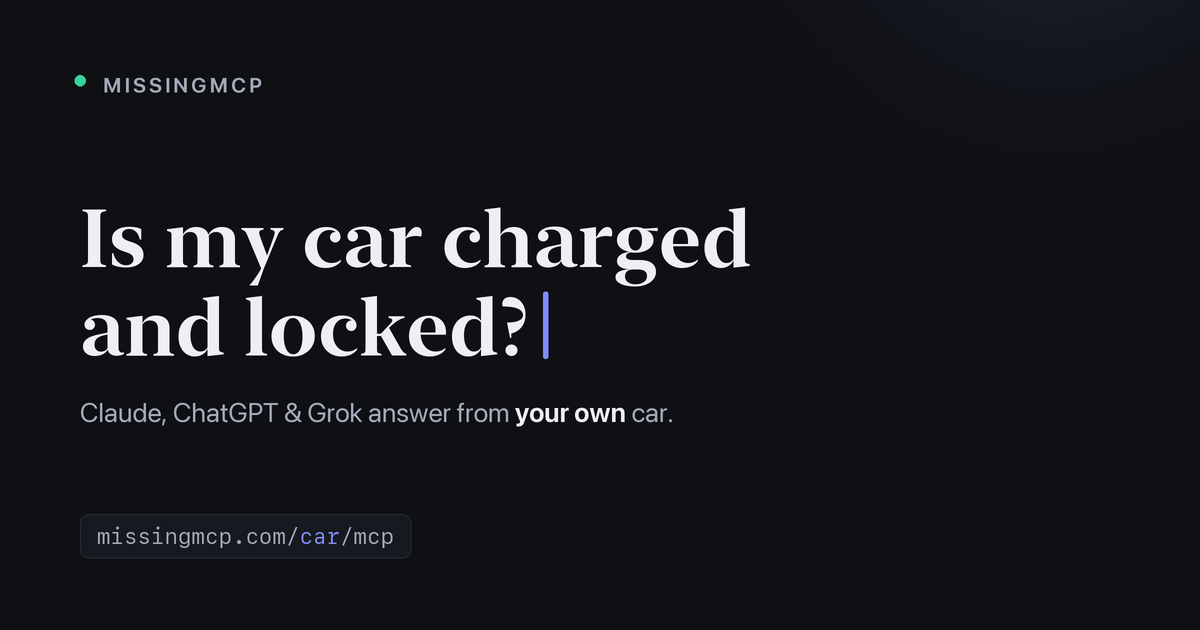
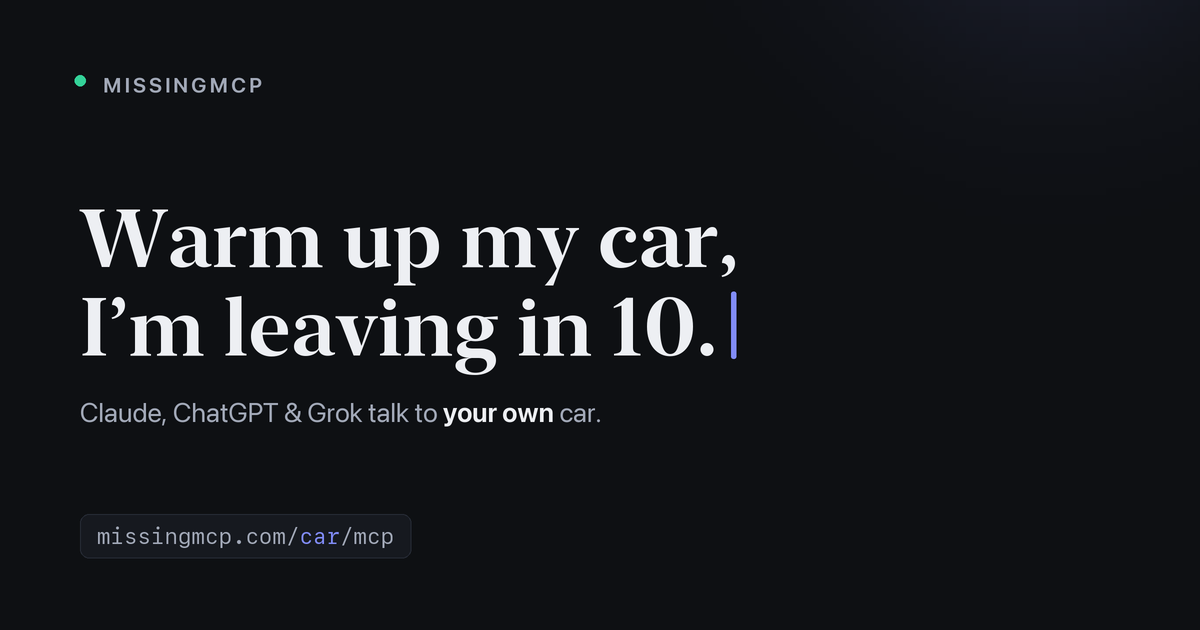
fix(car): link preview leads with an action — "Warm up my car, I'm leaving in 10."
Operator iteration on the /car preview: the card shows the connector *does*
things (pre-heat), not just reads; subline "Claude, ChatGPT & Grok talk to your
own car."; title "Connect your car to Claude, ChatGPT & Grok" (dropped "Car MCP
Server" and the "| MissingMCP" suffix — the preview already shows the domain;
"MCP server" stays in the meta description for search).

Changed region(s): [[0.0617, 0.3317, 0.6475, 0.6032], [0.3083, 0.6333, 0.555, 0.6937]]

diff --git a/tests/test_car_e2e.py b/tests/test_car_e2e.py
@@ -285,9 +285,8 @@ def test_car_landing_has_its_own_link_preview(fake_skoda):
     page = client.get("/car").text
     assert re.search(r'og:image" content="https://gw\.example\.com/static/og-car\.png\?v=\w{8}"', page)
     assert "own car" in re.search(r'og:image:alt" content="([^"]+)"', page).group(1)
-    assert "<title>Car MCP Server — Your car in Claude, ChatGPT &amp; Grok" in page \
-        or "<title>Car MCP Server — Your car in Claude, ChatGPT & Grok" in page
-    assert "Connect Car to Claude" not in page
+    assert re.search(r"<title>Connect your car to Claude, ChatGPT (&amp;|&) Grok</title>", page)
+    assert "Connect Car to Claude" not in page and "<title>Car MCP Server" not in page
     assert client.get("/static/og-car.png").headers["content-type"] == "image/png"
     # other connectors keep the site-wide card
     assert "/static/og.png?v=" in client.get("/garmin").text

diff --git a/src/missingmcp/adapters/car/__init__.py b/src/missingmcp/adapters/car/__init__.py
@@ -36,7 +36,9 @@ class CarAdapter:
     landing_template = "car.html"
     # Landing copy + link-preview card (app.adapter_routes probes these): the
     # generic "connect your Car account to Claude" reads wrong for a car.
-    landing_title = "Car MCP Server — Your car in Claude, ChatGPT & Grok | MissingMCP"
+    # The title doubles as the link-preview headline (iMessage shows the domain under
+    # it, so no "| MissingMCP"); the search phrase "MCP server" lives in the description.
+    landing_title = "Connect your car to Claude, ChatGPT & Grok"
     landing_description = ("Hosted car MCP server: ask Claude, ChatGPT or Grok about "
                            "battery, range and locks, and pre-heat the cabin. Škoda first, "
                            "your own API key, free beta.")

diff --git a/src/missingmcp/pages.py b/src/missingmcp/pages.py
@@ -21,7 +21,8 @@ _OG_IMAGE = "og.png"                     # the site-wide card
 # Every card scripts/gen_og_image.py draws (one per --variant) → its alt text.
 OG_IMAGES = {
     "og.png": "MissingMCP — Claude & ChatGPT answer from your own Garmin data.",
-    "og-car.png": "MissingMCP — Claude, ChatGPT & Grok answer from your own car.",
+    "og-car.png": "MissingMCP — “Warm up my car, I’m leaving in 10.” Claude, ChatGPT & "
+                  "Grok talk to your own car.",
 }
 _OG_IMAGE_VER = {name: hashlib.sha256(
     (Path(__file__).parent / "static" / name).read_bytes()).hexdigest()[:8]

diff --git a/scripts/gen_og_image.py b/scripts/gen_og_image.py
@@ -56,8 +56,9 @@ VARIANTS = {
     },
     "car": {
         "out": "og-car.png",
-        "ask": ["Is my car charged", "and locked?"],
-        "answer": [("Claude, ChatGPT & Grok answer from ", False), ("your own", True),
+        "ask": ["Warm up my car,", "I’m leaving in 10."],  # an action, not a read:
+                                                             # the card shows it *does* things
+        "answer": [("Claude, ChatGPT & Grok talk to ", False), ("your own", True),
                    (" car.", False)],
         "endpoints": [("missingmcp.com/", "car", "/mcp")],
     },
